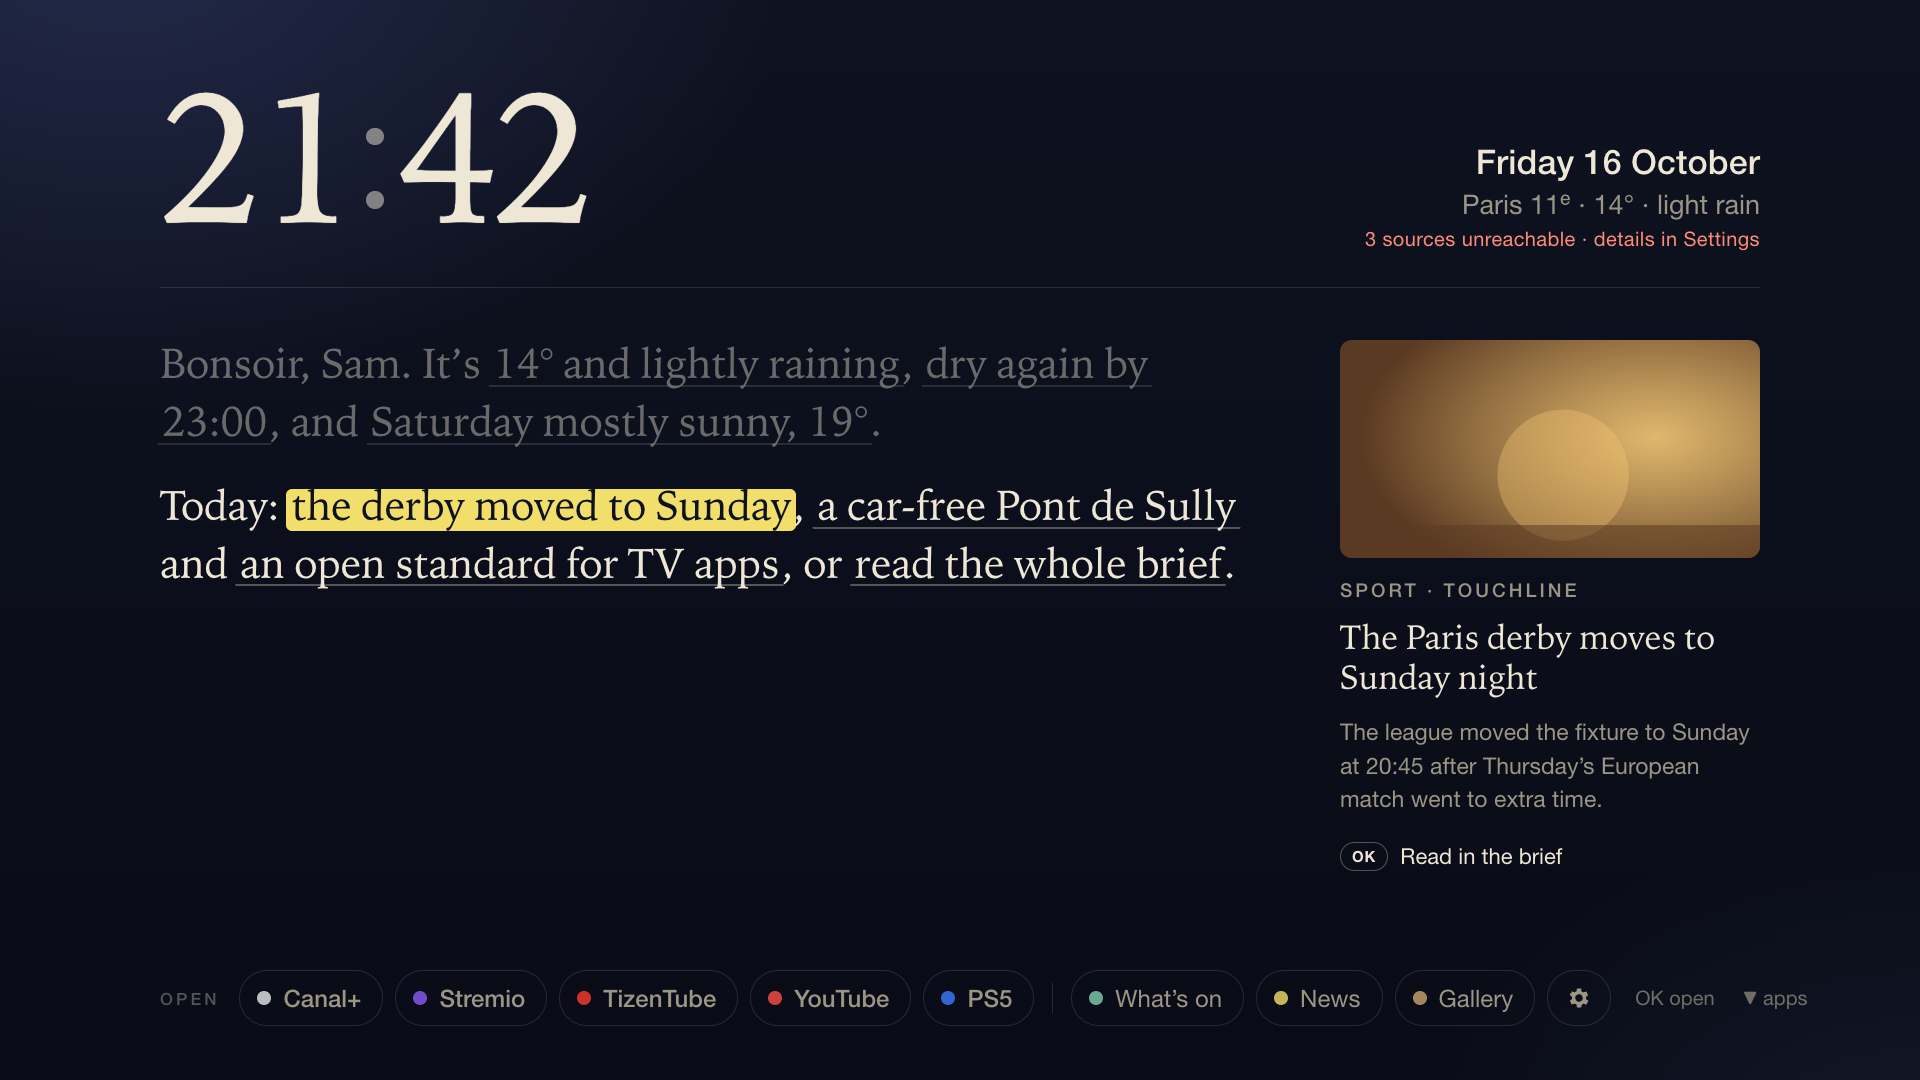
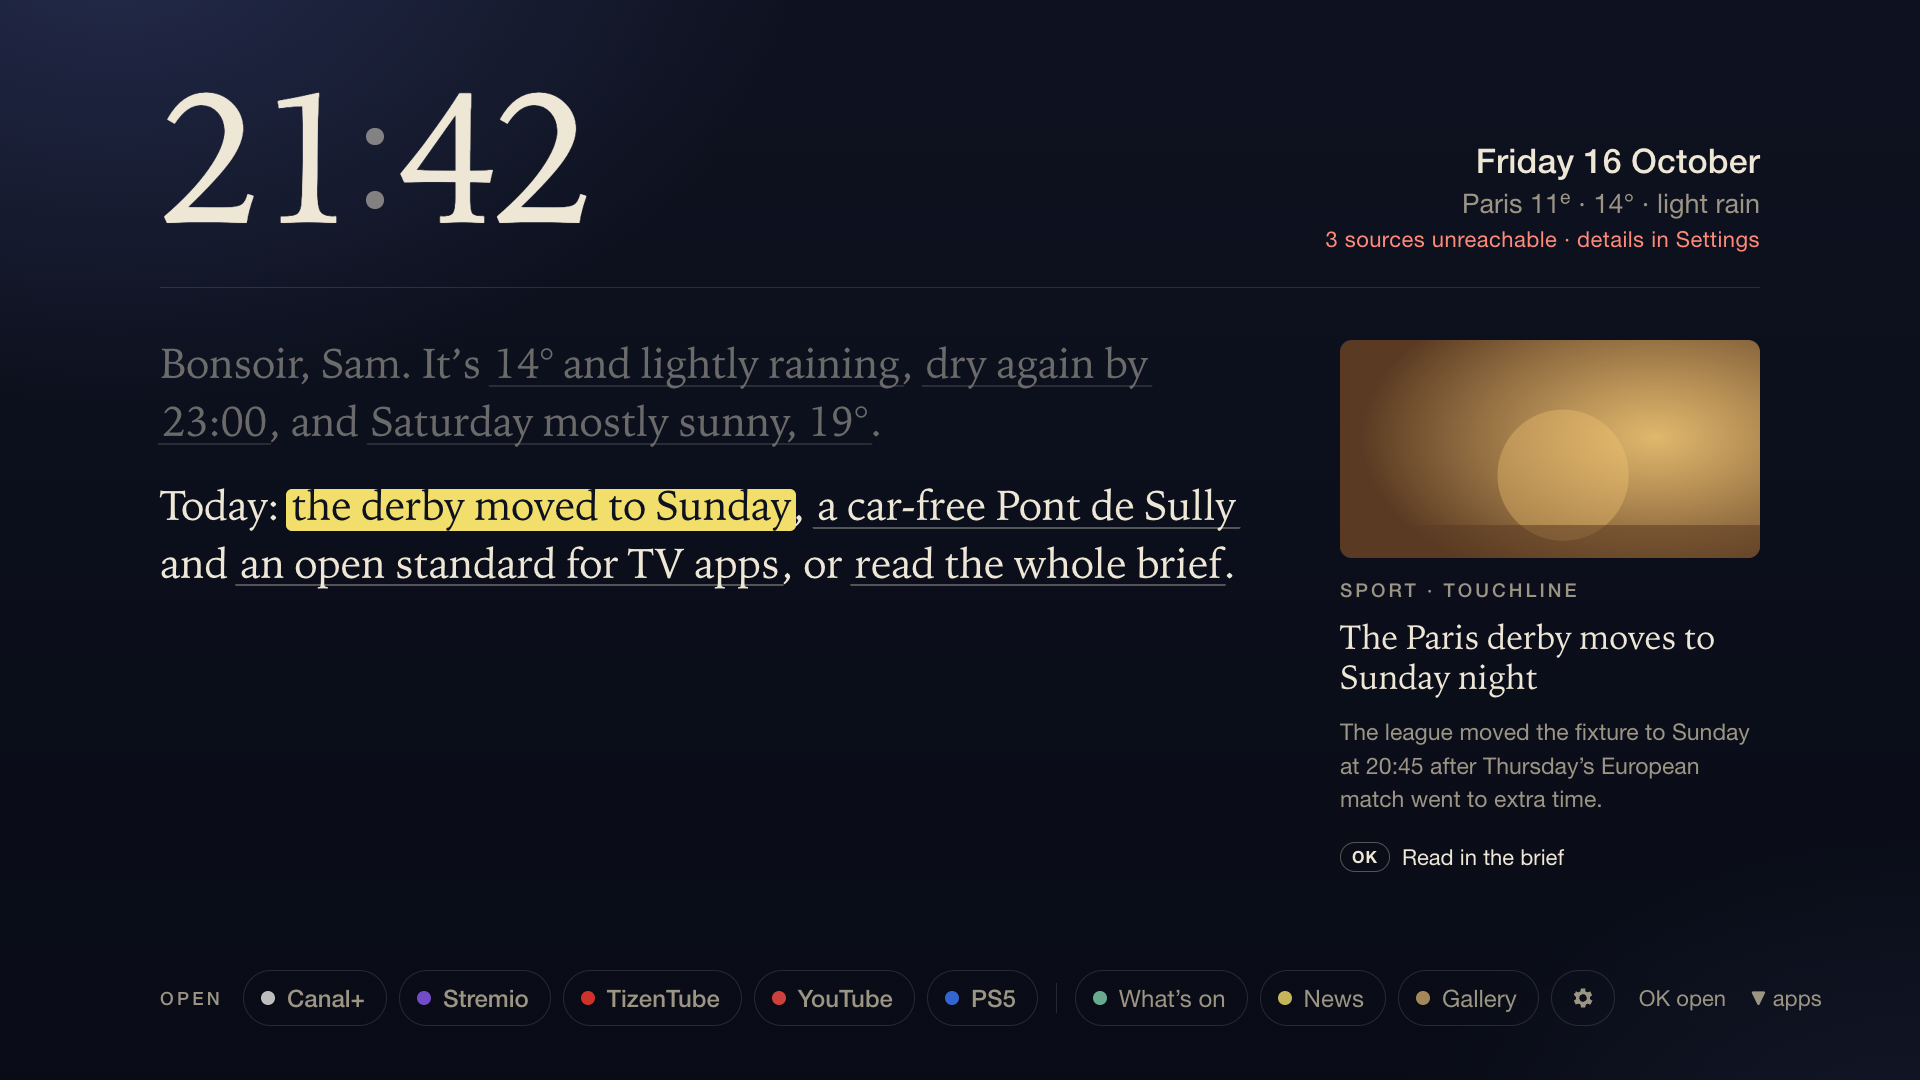
Readable from the sofa: remote hints, freshness line and small print
On the dark stage, the remote hints were drawn at 70% opacity (3.7:1
contrast) and the "Updated…" line, the OPEN label, the build line, the
gallery tab counts and the story source at --paper-faint (2.5:1), some of
them at 15 to 16 px. They now use --paper-dim (6.4:1) at 18 to 22 px; row
metadata goes from 18 to 20 px and the OK/Back key caps from 15 to 16 px.
The README screenshots that show these are regenerated.

diff --git a/app/style.css b/app/style.css
@@ -71,7 +71,7 @@ body.ambient .view { opacity: 0 !important; transition: opacity .9s var(--ease-i
 .dateline { display: flex; flex-direction: column; align-items: flex-end; gap: 6px; text-align: right; }
 .dateline b { font-size: 34px; font-weight: 500; letter-spacing: .005em; }
 #placeline { font-size: 27px; color: var(--paper-dim); }
-.freshness { font-size: 20px; color: var(--paper-faint); letter-spacing: .02em; min-height: 26px; }
+.freshness { font-size: 22px; color: var(--paper-dim); letter-spacing: .02em; min-height: 26px; }
 .freshness.bad { color: var(--alert); }
 
 /* the letter */
@@ -111,7 +111,7 @@ body.ambient .view { opacity: 0 !important; transition: opacity .9s var(--ease-i
 .nmeta { font-size: 23px; line-height: 1.45; color: var(--paper-dim); }
 .ok { display: flex; align-items: center; gap: 12px; margin-top: 26px; font-size: 22px; color: var(--paper); }
 .ok kbd, .svalue kbd {
-  font-family: var(--sans); font-size: 15px; font-weight: 700; letter-spacing: .06em;
+  font-family: var(--sans); font-size: 16px; font-weight: 700; letter-spacing: .06em;
   border: 1.5px solid var(--paper-faint); border-radius: 999px; padding: 4px 11px;
 }
 .big { font-family: var(--serif); font-size: 128px; line-height: .9; font-weight: 300; letter-spacing: -.03em; margin-bottom: 16px; }
@@ -161,7 +161,7 @@ body.ambient .view { opacity: 0 !important; transition: opacity .9s var(--ease-i
 /* the rack */
 .rackrow { position: absolute; left: 160px; right: 160px; bottom: 52px; height: 60px; display: flex; align-items: center; justify-content: space-between; }
 .shelf { position: relative; display: flex; align-items: center; gap: 12px; height: 100%; }
-.racklabel { font-size: 17px; letter-spacing: .18em; text-transform: uppercase; color: var(--paper-faint); margin-right: 8px; font-weight: 500; }
+.racklabel { font-size: 18px; letter-spacing: .18em; text-transform: uppercase; color: var(--paper-dim); margin-right: 8px; font-weight: 500; }
 .rack-marker {
   position: absolute; left: 0; top: 2px; bottom: 2px; width: 0; border-radius: 999px; background: var(--marker);
   opacity: 0; transition: transform .42s var(--ease-spring), width .42s var(--ease-spring), opacity .2s linear;
@@ -178,7 +178,7 @@ body.ambient .view { opacity: 0 !important; transition: opacity .9s var(--ease-i
 .chip.on i { transform: scale(1.25); opacity: 1; }
 .rack-divider { width: 1px; height: 30px; background: var(--rule); margin: 0 6px; }
 .chip.quiet { font-weight: 400; }
-.hint { display: flex; gap: 28px; font-size: 20px; color: var(--paper-dim); opacity: .7; white-space: nowrap; flex: none; margin-left: 24px; }
+.hint { display: flex; gap: 24px; font-size: 22px; color: var(--paper-dim); white-space: nowrap; flex: none; margin-left: 24px; }
 
 /* news */
 .news-head { position: absolute; left: 160px; right: 160px; top: 60px; display: flex; justify-content: space-between; align-items: flex-end; }
@@ -222,7 +222,7 @@ body.ambient .view { opacity: 0 !important; transition: opacity .9s var(--ease-i
 .row .rthumb { width: 150px; height: 96px; flex: none; border-radius: 10px; }
 .rtext { min-width: 0; display: flex; flex-direction: column; justify-content: center; gap: 8px; }
 .rtitle { font-size: 23px; line-height: 1.28; color: var(--paper-soft); display: -webkit-box; -webkit-line-clamp: 2; -webkit-box-orient: vertical; overflow: hidden; }
-.rmeta { font-size: 18px; color: var(--paper-dim); }
+.rmeta { font-size: 20px; color: var(--paper-dim); }
 .row.selected { background: rgba(239, 231, 214, .05); }
 .row.selected .rtitle { color: var(--paper); }
 .row.on { background: rgba(239, 231, 214, .09); box-shadow: inset 0 0 0 3px var(--marker); transform: translateX(-4px); }
@@ -231,7 +231,7 @@ body.ambient .view { opacity: 0 !important; transition: opacity .9s var(--ease-i
 .row.skeleton .rtext i { display: block; height: 20px; border-radius: 6px; }
 .row.skeleton .rtext i + i { width: 60%; }
 .empty { font-size: 24px; color: var(--paper-dim); padding: 20px; }
-.news-hint { position: absolute; left: 160px; bottom: 44px; display: flex; gap: 34px; font-size: 20px; color: var(--paper-dim); opacity: .7; }
+.news-hint { position: absolute; left: 160px; bottom: 44px; display: flex; gap: 34px; font-size: 22px; color: var(--paper-dim); }
 
 /* what's on: football and Paris */
 .crests { flex: none; width: 150px; height: 96px; display: flex; align-items: center; justify-content: center; gap: 14px; border-radius: 10px; background: rgba(239, 231, 214, .05); }
@@ -263,7 +263,7 @@ body.ambient .view { opacity: 0 !important; transition: opacity .9s var(--ease-i
 .chip svg path { fill: currentColor; }
 
 /* gallery */
-.tab small { margin-left: 10px; font-size: 16px; color: var(--paper-faint); font-weight: 500; }
+.tab small { margin-left: 10px; font-size: 18px; color: var(--paper-dim); font-weight: 500; }
 .tab.on small { color: rgba(14, 18, 32, .55); }
 .gallery-grid { position: absolute; left: 160px; right: 160px; top: 300px; height: 600px; overflow: hidden;
   -webkit-mask-image: linear-gradient(180deg, #000 0, #000 calc(100% - 70px), transparent 100%);
@@ -289,7 +289,7 @@ body.ambient .view { opacity: 0 !important; transition: opacity .9s var(--ease-i
 .viewer.open { opacity: 1; pointer-events: auto; }
 .viewer .acaption { opacity: 1; transition: opacity .6s var(--ease); text-shadow: 0 2px 24px rgba(0, 0, 0, .55); }
 .viewer .acaption.out { opacity: 0; }
-.viewer-hint { position: absolute; left: 120px; top: 80px; display: flex; gap: 30px; font-size: 20px; color: var(--paper-dim); text-shadow: 0 2px 16px rgba(0, 0, 0, .6); }
+.viewer-hint { position: absolute; left: 120px; top: 80px; display: flex; gap: 30px; font-size: 22px; color: var(--paper-soft); text-shadow: 0 2px 16px rgba(0, 0, 0, .6); }
 
 /* settings */
 .sheet { position: absolute; inset: 0; pointer-events: none; z-index: 10; }
@@ -322,7 +322,7 @@ body.settings-open .sheet-panel { transform: none; }
 .status b { font-weight: 500; color: var(--paper-soft); white-space: nowrap; overflow: hidden; text-overflow: ellipsis; }
 .keys { display: flex; gap: 26px; margin-top: 26px; font-size: 18px; color: var(--paper-dim); }
 .keys i { display: inline-block; width: 22px; height: 12px; border-radius: 3px; margin-right: 8px; }
-.build { margin-top: 18px; font-size: 16px; color: var(--paper-faint); }
+.build { margin-top: 18px; font-size: 18px; color: var(--paper-dim); }
 
 /* ChatGPT pairing */
 .sheet-panel > h2, .srows, .sstatus { transition: opacity .3s var(--ease); }
@@ -403,9 +403,9 @@ body.ambient-art .acaption.out { opacity: 0; }
 #ambient .acaption { top: 340px; display: flex; flex-direction: column; justify-content: flex-end; }
 .astory:empty { display: none; }
 .afacts { margin-top: 20px; display: grid; grid-template-columns: auto 1fr; gap: 6px 18px; font-size: 18px; }
-.afacts dt { color: var(--paper-dim); letter-spacing: .08em; text-transform: uppercase; font-size: 15px; padding-top: 3px; }
+.afacts dt { color: var(--paper-dim); letter-spacing: .08em; text-transform: uppercase; font-size: 16px; padding-top: 3px; }
 .afacts dd { margin: 0; color: var(--paper-soft); }
-.asource { margin-top: 16px; font-size: 15px; color: var(--paper-faint); letter-spacing: .04em; }
+.asource { margin-top: 16px; font-size: 18px; color: var(--paper-dim); letter-spacing: .04em; }
 .viewer .acaption { top: 140px; bottom: 80px; max-width: 620px; display: flex; flex-direction: column; justify-content: flex-end; }
 .viewer .astory { display: block; -webkit-line-clamp: unset; overflow: visible; font-size: 22px; }
 .aqrcode { display: flex; align-items: center; gap: 22px; margin-top: 28px; padding: 18px 22px; border: 1px solid rgba(242,240,230,.16); background: rgba(14,18,32,.45); border-radius: 14px; width: fit-content; }
